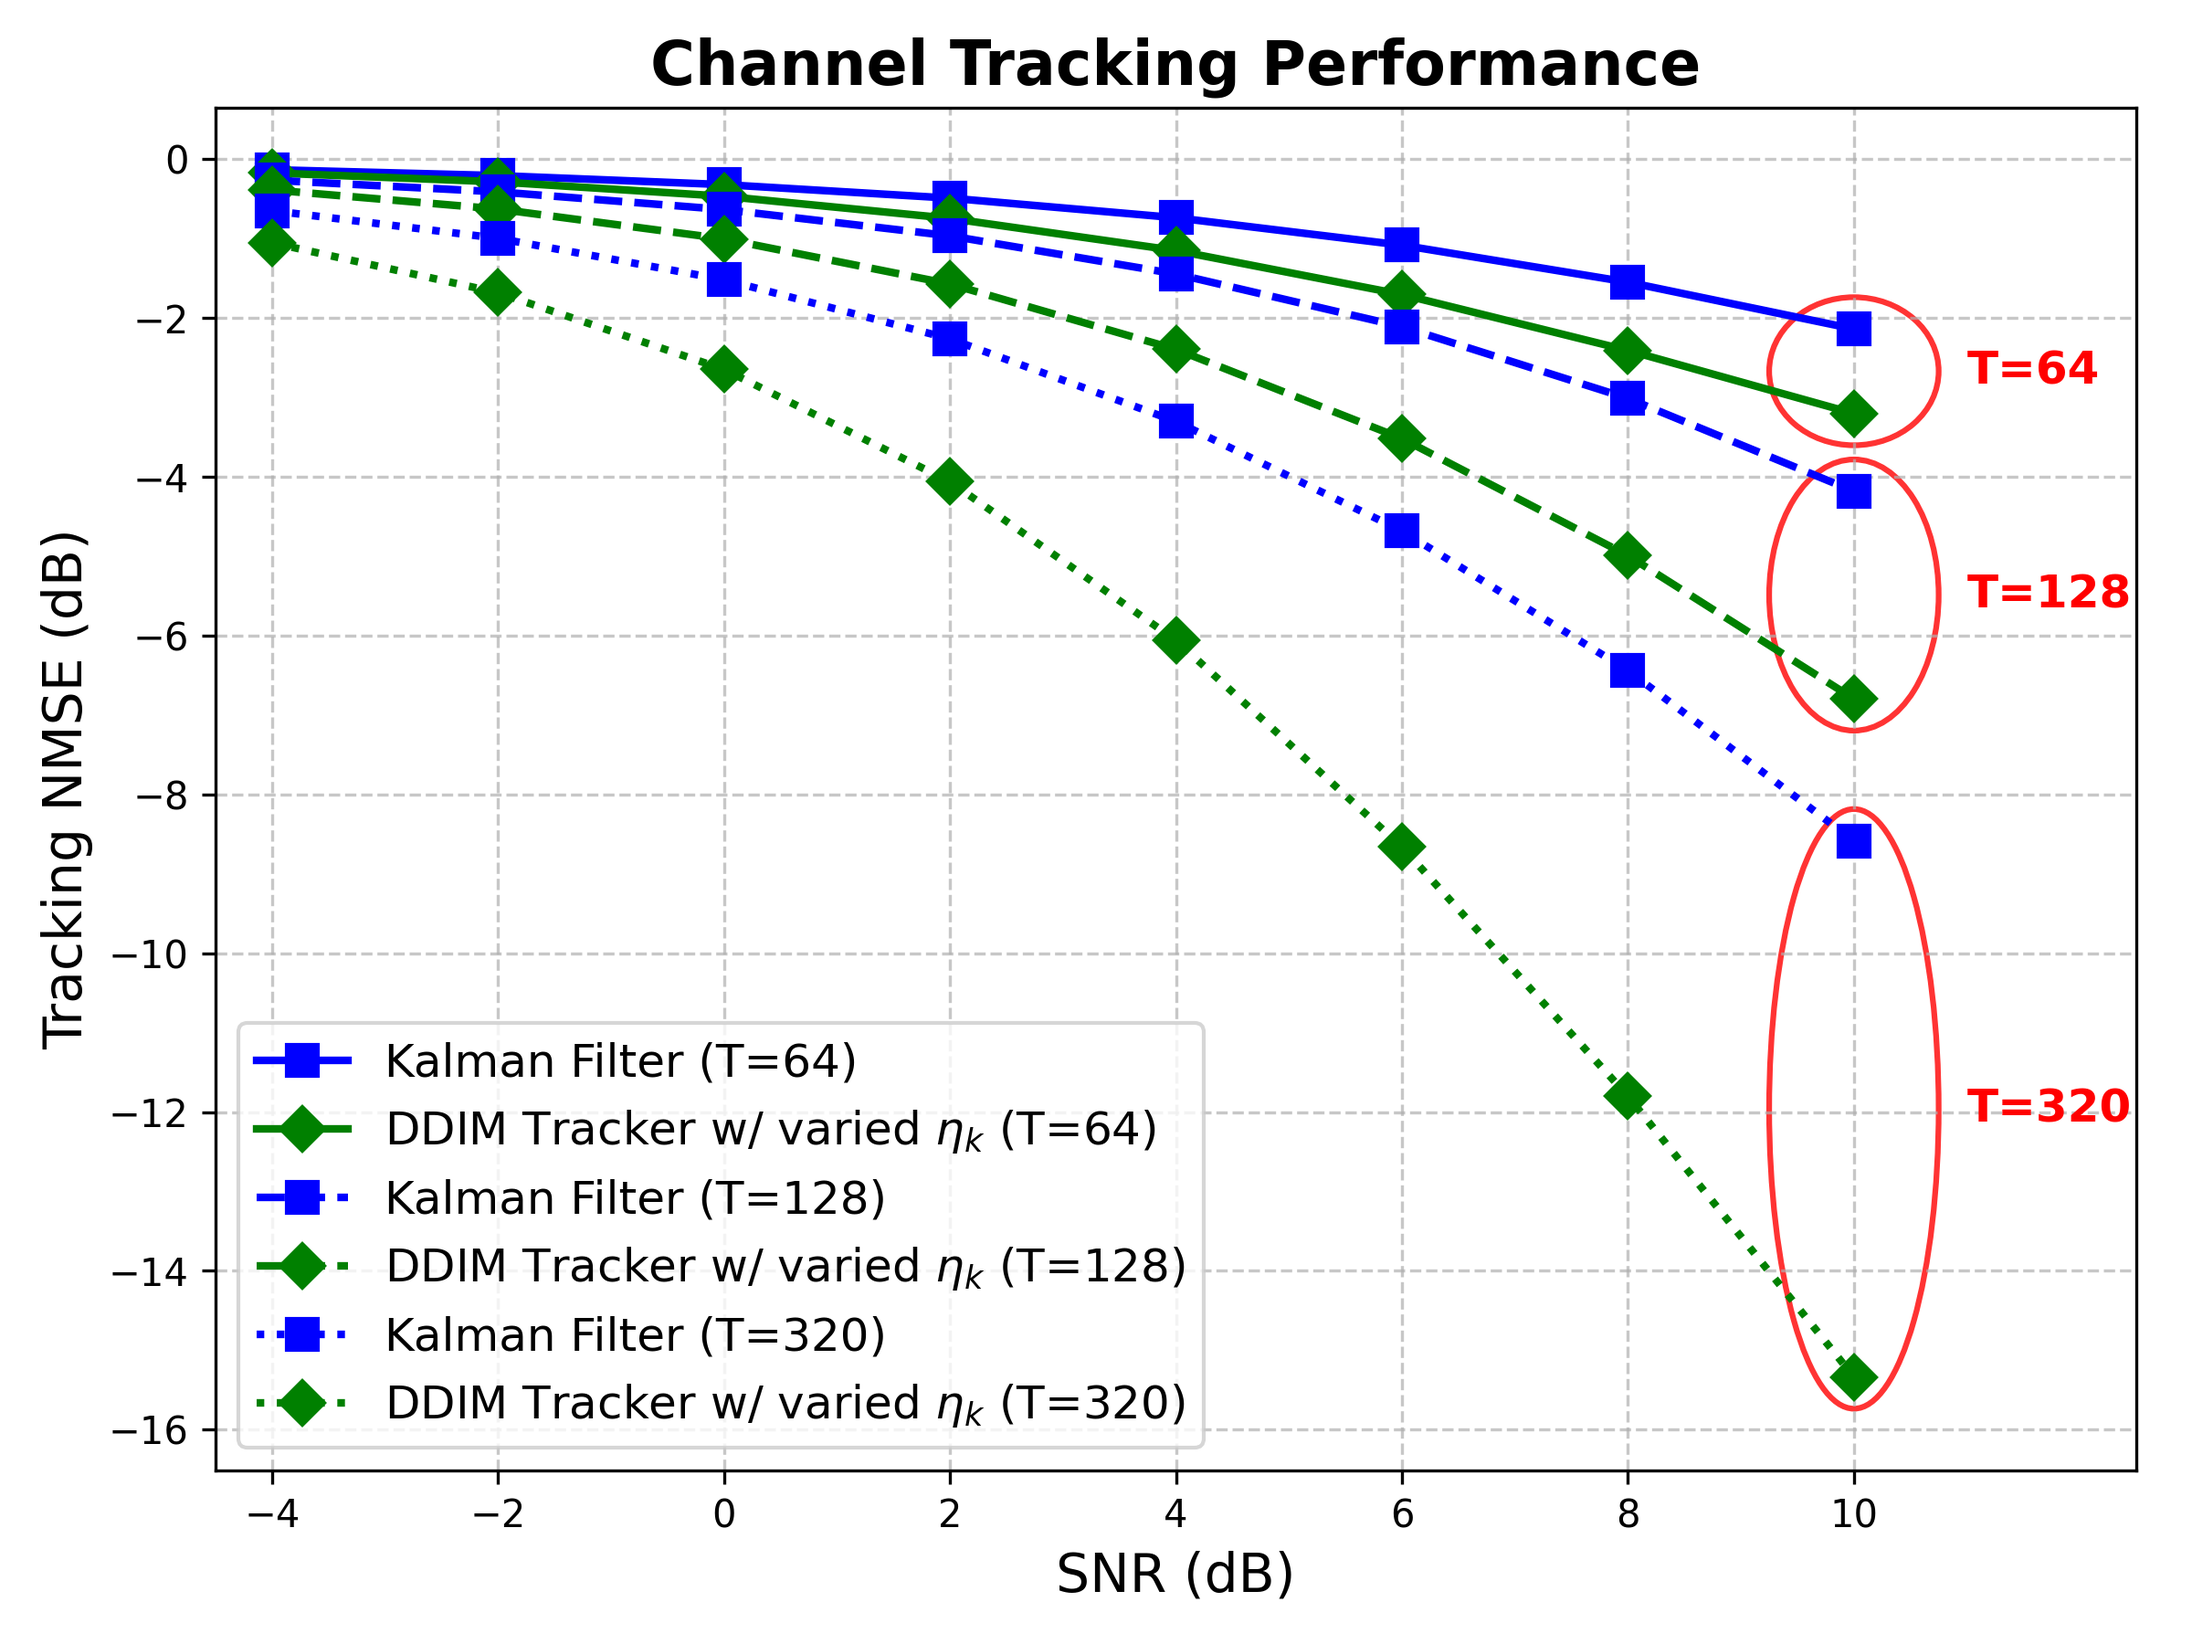
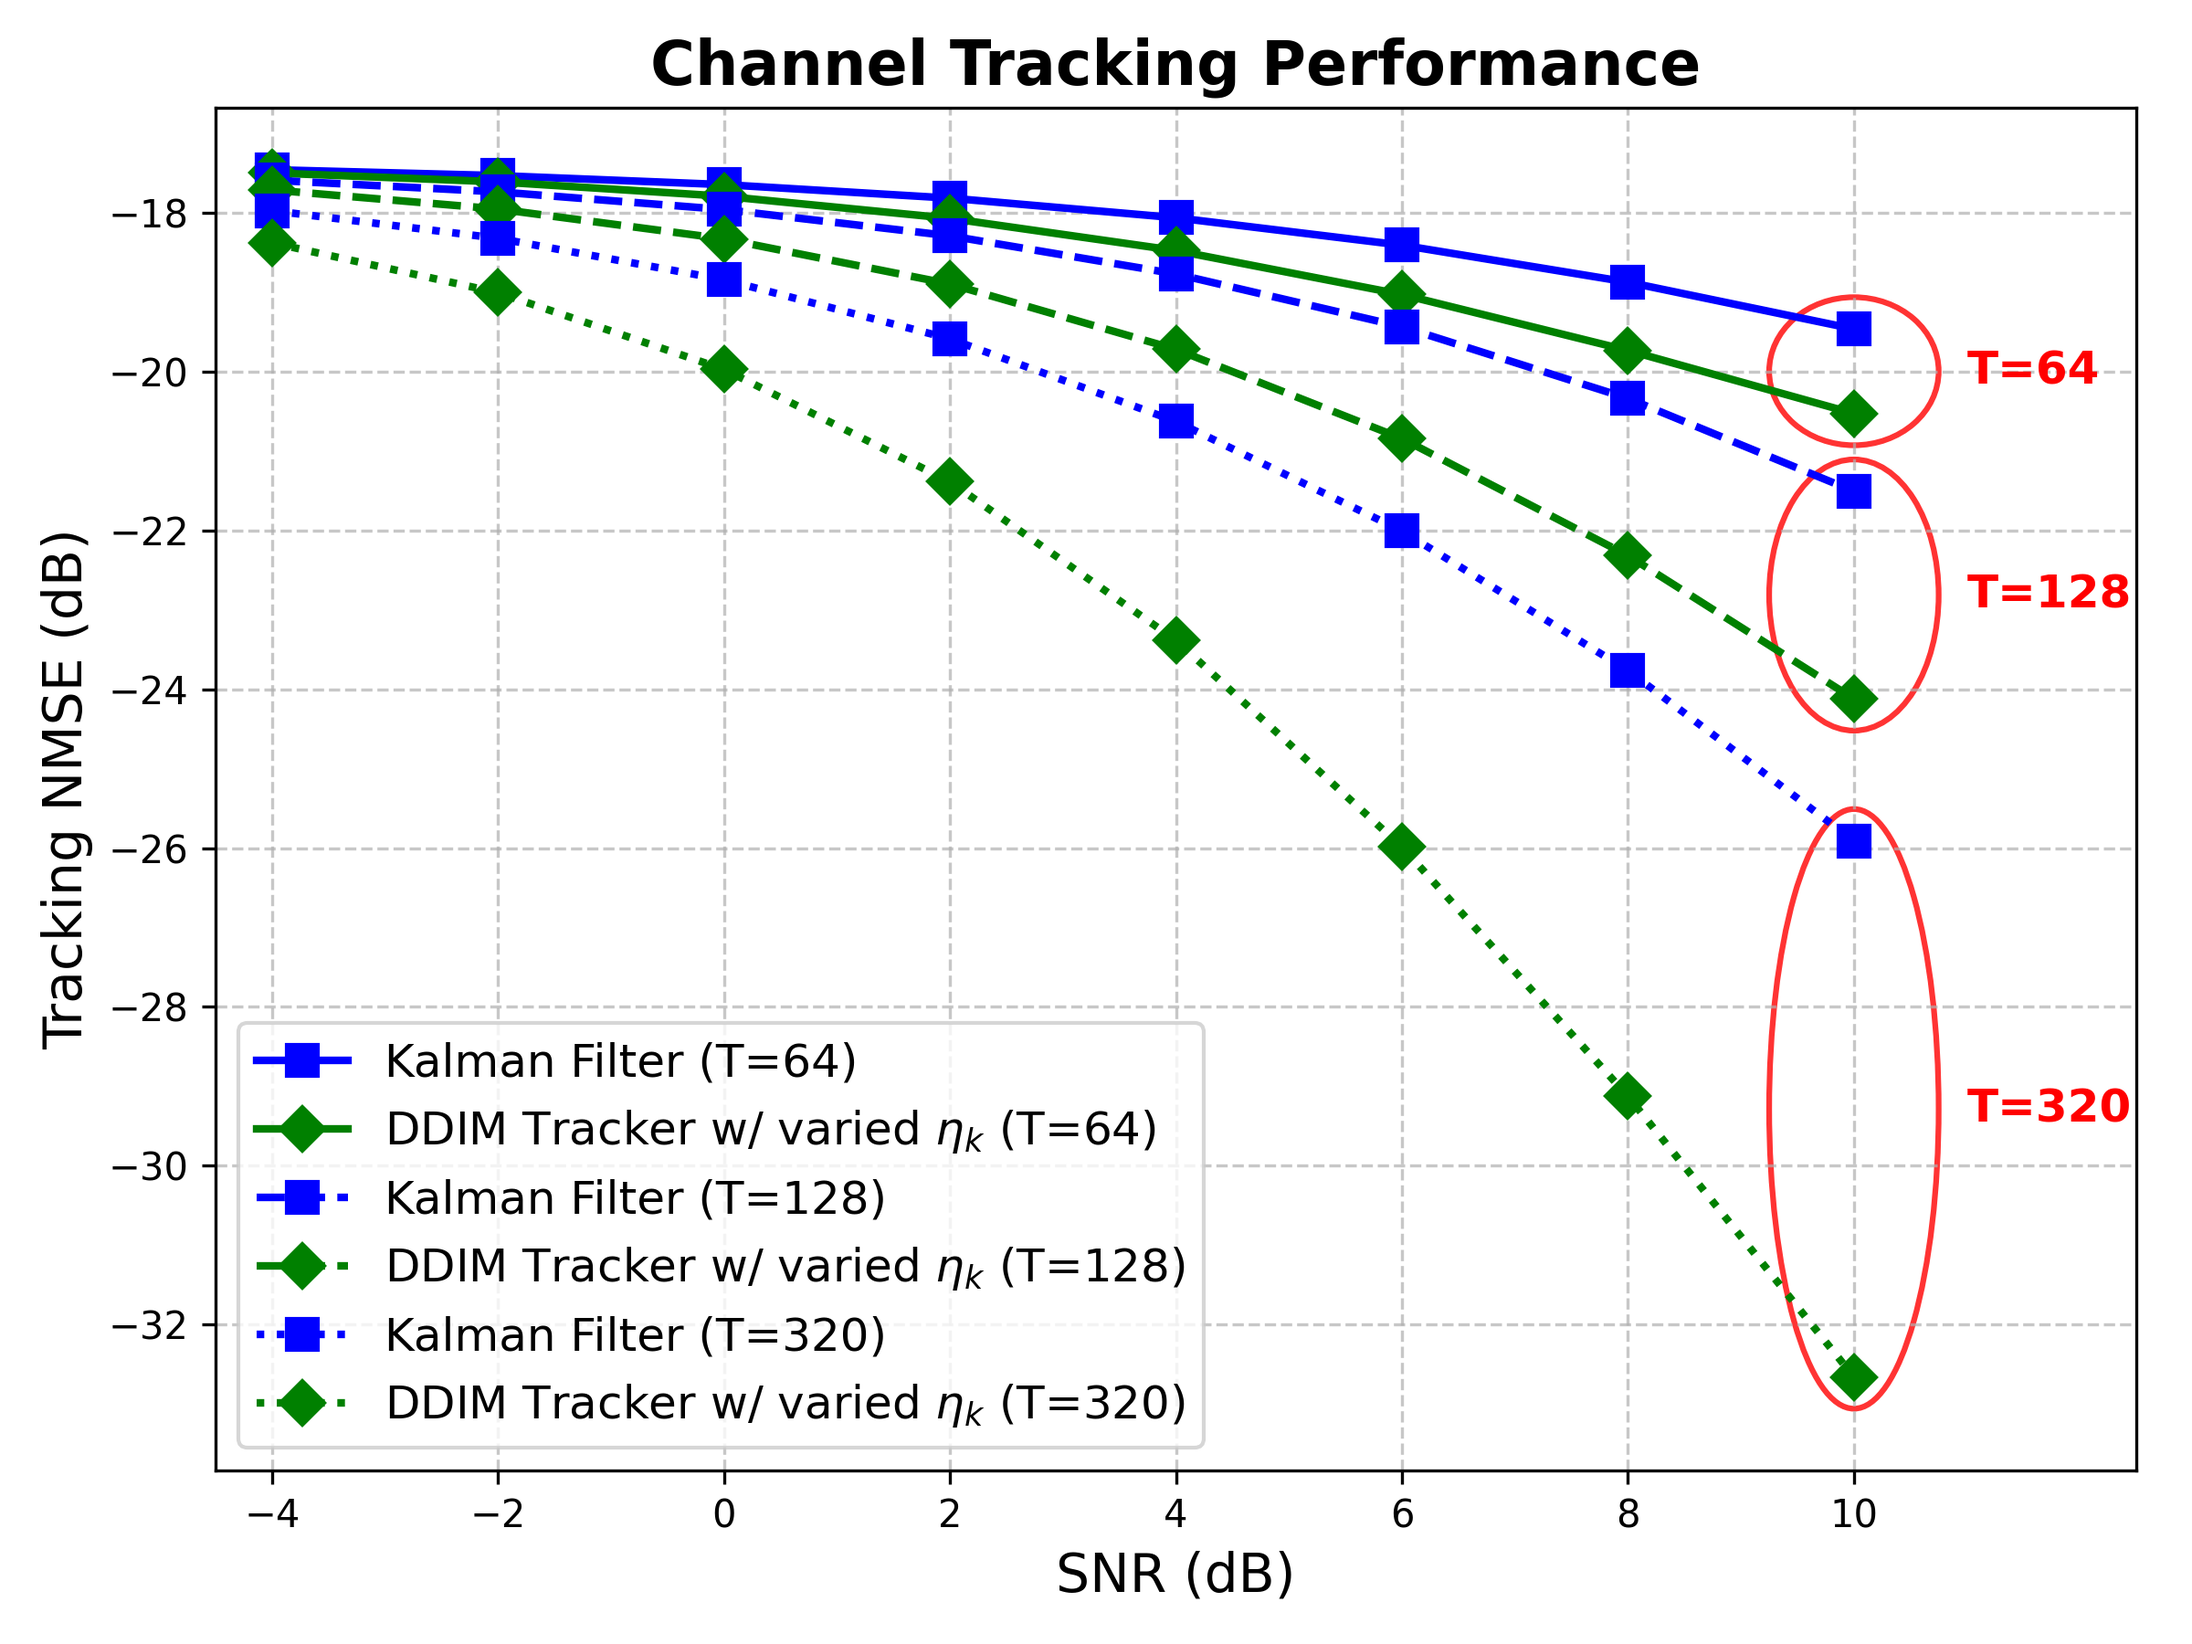
feat(nmlz by rT): NMSE also normalized by rT

diff --git a/small_scale_channel_tracking/test_results/NMSE_plot_T64vs128vs320.py b/small_scale_channel_tracking/test_results/NMSE_plot_T64vs128vs320.py
@@ -11,7 +11,7 @@ FREQ_GHZ = 38
 if FREQ_GHZ == 12: RHO = 0.1034
 elif FREQ_GHZ == 38: RHO = 0.0001
 # NUM_PILOTS = 64
-R_T = 64
+R_T = 54
 mode = 'modal' # 'spatial' or 'modal'
 
 # Load .mat files to plot
@@ -153,6 +153,10 @@ def plot_and_save_metric(metric_type, title, ylabel, save_name_base, script_dir)
         # flatten arrays
         snrs = data[MAT_KEYS["snr"]].flatten()
         values = data[data_key].flatten()
+        # --- normalized by r_T ---
+        if mode == 'modal':
+            values = values - 10 * np.log10(R_T)
+        # -----------------------------------------------------------
         
         # plot
         data_found = True
